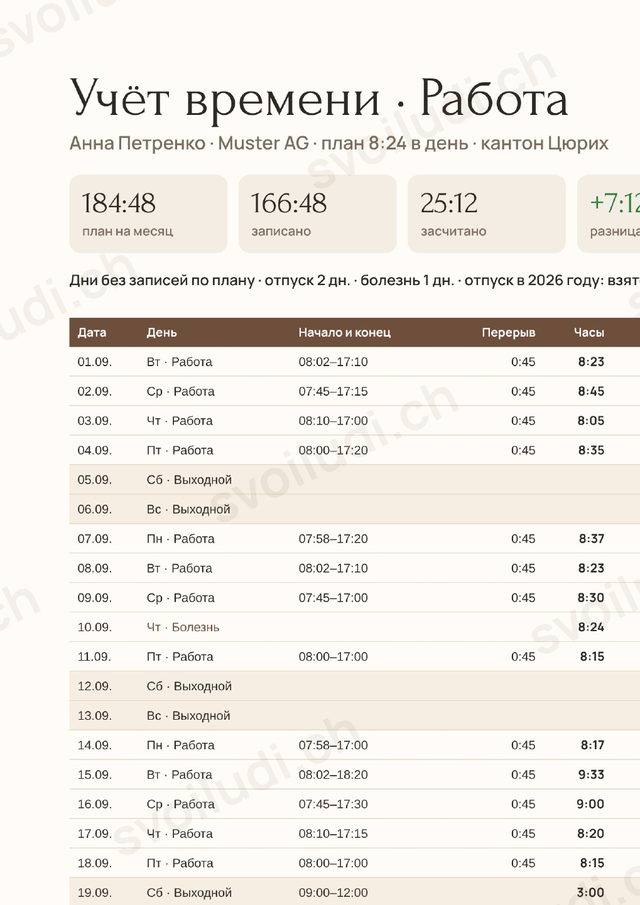
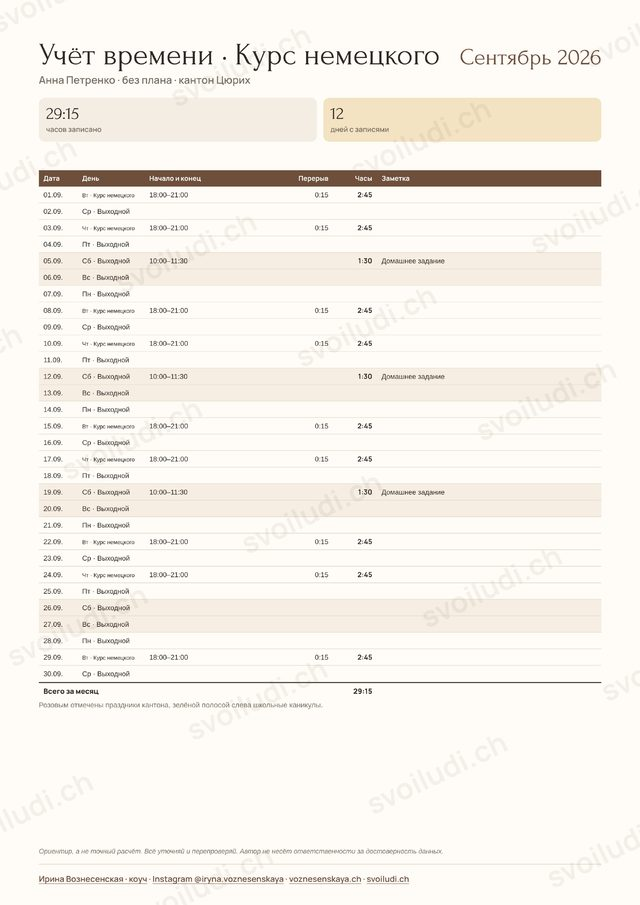
Веер PDF: только целые страницы; исправлены итоги в украинском PDF «Облік мого часу»
Claude-Session: https://claude.ai/code/session_0124537rjmK674RVkc53cntH

diff --git a/assets/pdffan.uk.js b/assets/pdffan.uk.js
@@ -6,19 +6,13 @@
   /* что показываем у каждого инструмента: страницы лежат в /instrumenty/preview/<инструмент>/N.jpg (украинские — в …/uk/N.jpg) */
   var FANS = {
     'moj-god': {pages: '1', unit: 'аркуш A4', items: [
-      {t: 'Увесь рік на одному аркуші', d: 'Усі твої справи й терміни на 12 місяців. Видно, де густо, а де є місце для відпочинку.', land: true},
-      {t: 'Крупно. Початок року', d: 'У кожної справи своя кольорова смужка. Рожевим позначені свята твого кантону.'},
-      {t: 'Крупно. Літо й осінь', d: 'Відпустка, курси за рівнями й терміни на кшталт податкової декларації.'}
+      {t: 'Увесь рік на одному аркуші', d: 'Усі твої справи й терміни на 12 місяців. Видно, де густо, а де є місце для відпочинку. Рожевим позначені свята твого кантону.', land: true}
     ]},
     'moj-den': {pages: '1', unit: 'аркуш A4', items: [
-      {t: 'Твій день на одному аркуші', d: 'План по годинах, головні справи й вечірній підсумок. Можна роздрукувати й повісити на холодильник.'},
-      {t: 'Крупно. День по годинах', d: 'Кожна справа кольоровим блоком. Одразу видно, скільки часу йде на роботу, дітей і на себе.'},
-      {t: 'Крупно. Головне і стоп-лист', d: 'Три головні справи, чотири поля «важливо і терміново» і те, чого ти сьогодні не робиш.'}
+      {t: 'Твій день на одному аркуші', d: 'План по годинах, три головні справи, «важливо і терміново», стоп-лист і вечірній підсумок. Можна роздрукувати й повісити на холодильник.'}
     ]},
     'moi-emocii': {pages: '1', unit: 'аркуш A4', items: [
-      {t: 'Один день у щоденнику', d: 'Усі емоції дня за часом, їхня сила й вечірні нотатки.'},
-      {t: 'Крупно. Що відбувалося', d: 'Що сталося, де це було в тілі, яка думка прийшла і що допомогло.'},
-      {t: 'Крупно. Сила емоції', d: 'У кожного запису шкала від 1 до 10. Видно, коли було найважче.'}
+      {t: 'Один день у щоденнику', d: 'Усі емоції дня за часом і їхня сила. Що сталося, де це було в тілі, яка думка прийшла і що допомогло.'}
     ]},
     'moj-budget': {pages: '5', unit: 'сторінок', items: [
       {t: 'Підсумок і сфери', d: 'Скільки йде на місяць і на рік і на що. Місяці великих рахунків позначені.'},
@@ -28,10 +22,8 @@
       {t: 'Перевір, чи потрібно це тобі', d: 'Витрати, про які нові мешканці часто забувають.'}
     ]},
     'uchet-vremeni': {pages: '1', unit: 'аркуш A4', items: [
-      {t: 'Місяць на одному аркуші', d: 'Кожен день з початком, кінцем і перервою, підсумок місяця й місця для підписів.'},
-      {t: 'Крупно. Підсумок місяця', d: 'Скільки годин за планом, скільки записано і де ти в плюсі чи в мінусі.'},
-      {t: 'Крупно. Перенесення залишку', d: 'Плюс або мінус переходить на наступний місяць. Підсумок із перенесенням видно одразу.'},
-      {t: 'Крупно. Відпустка й підписи', d: 'Дні відпустки й хвороби позначені. Унизу місце для твого підпису й підпису роботодавця.'}
+      {t: 'Робота з планом годин', d: 'Кожен день з початком, кінцем і перервою. Плюс чи мінус за місяць, перенесення, відпустка й місця для підписів.'},
+      {t: 'Облік без плану', d: 'Наприклад, курс німецької. Просто скільки годин пішло за місяць і в які дні.'}
     ]},
     'chasy-po-klientam': {pages: '3', unit: 'звіти', items: [
       {t: 'Звіт про роботу для клієнта', d: 'Stundenrapport за місяць. Дати, час, що зроблено, сума й місця для підписів.'},
@@ -91,6 +83,7 @@
     var stage = host.querySelector('.pf-stage'), pages = [].slice.call(host.querySelectorAll('.pf-page')),
         dots = [].slice.call(host.querySelectorAll('.pf-dots span')), cap = host.querySelector('.pf-cap');
     var cur = 0, timer = null, stopped = false;
+    if (N < 2) host.querySelector('.pf-nav').style.display = 'none';
     function lay(){
       var deg = stage.clientWidth < 330 ? 8 : 10;
       pages.forEach(function(p, i){

diff --git a/assets/pdffan.js b/assets/pdffan.js
@@ -6,19 +6,13 @@
   /* что показываем у каждого инструмента: страницы лежат в /instrumenty/preview/<инструмент>/N.jpg (украинские — в …/uk/N.jpg) */
   var FANS = {
     'moj-god': {pages: '1', unit: 'лист A4', items: [
-      {t: 'Весь год на одном листе', d: 'Все твои дела и сроки на 12 месяцев. Видно, где густо, а где есть место для отдыха.', land: true},
-      {t: 'Крупно. Начало года', d: 'У каждого дела своя цветная полоска. Розовым отмечены праздники твоего кантона.'},
-      {t: 'Крупно. Лето и осень', d: 'Отпуск, курсы по уровням и сроки вроде налоговой декларации.'}
+      {t: 'Весь год на одном листе', d: 'Все твои дела и сроки на 12 месяцев. Видно, где густо, а где есть место для отдыха. Розовым отмечены праздники твоего кантона.', land: true}
     ]},
     'moj-den': {pages: '1', unit: 'лист A4', items: [
-      {t: 'Твой день на одном листе', d: 'План по часам, главные дела и вечерний итог. Можно распечатать и повесить на холодильник.'},
-      {t: 'Крупно. День по часам', d: 'Каждое дело цветным блоком. Сразу видно, сколько времени уходит на работу, детей и на себя.'},
-      {t: 'Крупно. Главное и стоп-лист', d: 'Три главных дела, четыре поля «важно и срочно» и то, что ты сегодня не делаешь.'}
+      {t: 'Твой день на одном листе', d: 'План по часам, три главных дела, «важно и срочно», стоп-лист и вечерний итог. Можно распечатать и повесить на холодильник.'}
     ]},
     'moi-emocii': {pages: '1', unit: 'лист A4', items: [
-      {t: 'Один день в дневнике', d: 'Все эмоции дня по времени, их сила и вечерние заметки.'},
-      {t: 'Крупно. Что происходило', d: 'Что произошло, где это было в теле, какая мысль пришла и что помогло.'},
-      {t: 'Крупно. Сила эмоции', d: 'У каждой записи шкала от 1 до 10. Видно, когда было тяжелее всего.'}
+      {t: 'Один день в дневнике', d: 'Все эмоции дня по времени и их сила. Что произошло, где это было в теле, какая мысль пришла и что помогло.'}
     ]},
     'moj-budget': {pages: '5', unit: 'страниц', items: [
       {t: 'Итог и сферы', d: 'Сколько уходит в месяц и в год и на что. Месяцы больших счетов отмечены.'},
@@ -28,10 +22,8 @@
       {t: 'Проверь, нужно ли это тебе', d: 'Расходы, о которых новые жители часто забывают.'}
     ]},
     'uchet-vremeni': {pages: '1', unit: 'лист A4', items: [
-      {t: 'Месяц на одном листе', d: 'Каждый день с началом, концом и перерывом, итог месяца и места для подписей.'},
-      {t: 'Крупно. Итог месяца', d: 'Сколько часов по плану, сколько записано и где ты в плюсе или в минусе.'},
-      {t: 'Крупно. Перенос остатка', d: 'Плюс или минус переходит на следующий месяц. Итог с переносом виден сразу.'},
-      {t: 'Крупно. Отпуск и подписи', d: 'Дни отпуска и болезни отмечены. Внизу место для твоей подписи и подписи работодателя.'}
+      {t: 'Работа с планом часов', d: 'Каждый день с началом, концом и перерывом. Плюс или минус за месяц, перенос, отпуск и места для подписей.'},
+      {t: 'Учёт без плана', d: 'Например, курс немецкого. Просто сколько часов ушло за месяц и в какие дни.'}
     ]},
     'chasy-po-klientam': {pages: '3', unit: 'отчёта', items: [
       {t: 'Отчёт о работе для клиента', d: 'Stundenrapport за месяц. Даты, время, что сделано, сумма и места для подписей.'},
@@ -91,6 +83,7 @@
     var stage = host.querySelector('.pf-stage'), pages = [].slice.call(host.querySelectorAll('.pf-page')),
         dots = [].slice.call(host.querySelectorAll('.pf-dots span')), cap = host.querySelector('.pf-cap');
     var cur = 0, timer = null, stopped = false;
+    if (N < 2) host.querySelector('.pf-nav').style.display = 'none';
     function lay(){
       var deg = stage.clientWidth < 330 ? 8 : 10;
       pages.forEach(function(p, i){

diff --git a/uk/instrumenty/uchet-vremeni/index.html b/uk/instrumenty/uchet-vremeni/index.html
@@ -1201,7 +1201,7 @@ function drawSheet(){
   // строка итогов
   c.fillStyle = PC.ink; c.fillRect(PM, y, tw, 4); y += 4;
   c.font = '800 28px Manrope, sans-serif'; c.fillText('Усього за місяць', PM + 18, y + rh * .64);
-  const tot = fx ? {Часы: fmt(T.worked + T.cred), План: fmt(T.norm), Разница: fmt(T.diff, true)} : {Часы: fmt(T.worked)};
+  const tot = {}; if (fx){ tot['Години'] = fmt(T.worked + T.cred); tot['План'] = fmt(T.norm); tot['Різниця'] = fmt(T.diff, true); } else tot['Години'] = fmt(T.worked);
   let xx = PM; cols.forEach(([n, w]) => { if (tot[n]){ c.textAlign = 'right'; c.fillStyle = n === 'Різниця' ? (T.diff > 0 ? PC.green : T.diff < 0 ? PC.red : PC.ink) : PC.ink; c.fillText(tot[n], xx + w - 18, y + rh * .64); c.textAlign = 'left'; } xx += w; });
   y += rh + 30;
   c.fillStyle = PC.muted; c.font = '500 28px Manrope, sans-serif';

diff --git a/instrumenty/uchet-vremeni/index.html b/instrumenty/uchet-vremeni/index.html
@@ -1201,7 +1201,7 @@ function drawSheet(){
   // строка итогов
   c.fillStyle = PC.ink; c.fillRect(PM, y, tw, 4); y += 4;
   c.font = '800 28px Manrope, sans-serif'; c.fillText('Всего за месяц', PM + 18, y + rh * .64);
-  const tot = fx ? {Часы: fmt(T.worked + T.cred), План: fmt(T.norm), Разница: fmt(T.diff, true)} : {Часы: fmt(T.worked)};
+  const tot = {}; if (fx){ tot['Часы'] = fmt(T.worked + T.cred); tot['План'] = fmt(T.norm); tot['Разница'] = fmt(T.diff, true); } else tot['Часы'] = fmt(T.worked);
   let xx = PM; cols.forEach(([n, w]) => { if (tot[n]){ c.textAlign = 'right'; c.fillStyle = n === 'Разница' ? (T.diff > 0 ? PC.green : T.diff < 0 ? PC.red : PC.ink) : PC.ink; c.fillText(tot[n], xx + w - 18, y + rh * .64); c.textAlign = 'left'; } xx += w; });
   y += rh + 30;
   c.fillStyle = PC.muted; c.font = '500 28px Manrope, sans-serif';

diff --git a/_i18n/JOURNAL.md b/_i18n/JOURNAL.md
@@ -21,3 +21,4 @@
 | 07.10.2026 | SG-0017 В. Пономаренко: подтверждена кнопкой на сайте 07.10.2026 09:36 — карточка активна | UA пересобран | — |
 | 07.10.2026 | Превью готового PDF веером (assets/pdffan.js) на вкладке «Полезные инструменты» и в начале каждого инструмента; картинки страниц instrumenty/preview/<инструмент>/N.jpg, украинские — …/uk/N.jpg (сделаны из украинских PDF) | 47 фраз переведены, pdffan.uk.js, UA пересобран | — |
 | 07.10.2026 | Превью ссылок: новая картинка главной (карта Швейцарии с плашками специалистов), свои превью у «Учёт моего времени», «Часы по клиентам» (страницы готового PDF с примером) и политики конфиденциальности; все превью RU и UA пересобраны одним скриптом `_i18n/og.js` (Excel убран с превью «Мой бюджет»). Добавлена проверка `node _i18n/og.js check`. | Украинские превью собраны тем же скриптом (.uk.jpg), og:image на uk-страницах проставлен сборкой | — |
+| 07.10.2026 | Веер PDF: убраны вырезанные фрагменты «Крупно», только целые страницы; «Учёт моего времени» — второй пример (курс немецкого без плана). Исправлено: в украинском PDF «Облік мого часу» не выводились итоговые часы в строке «Усього за місяць» | 7 фраз переведены, UA пересобран | — |
